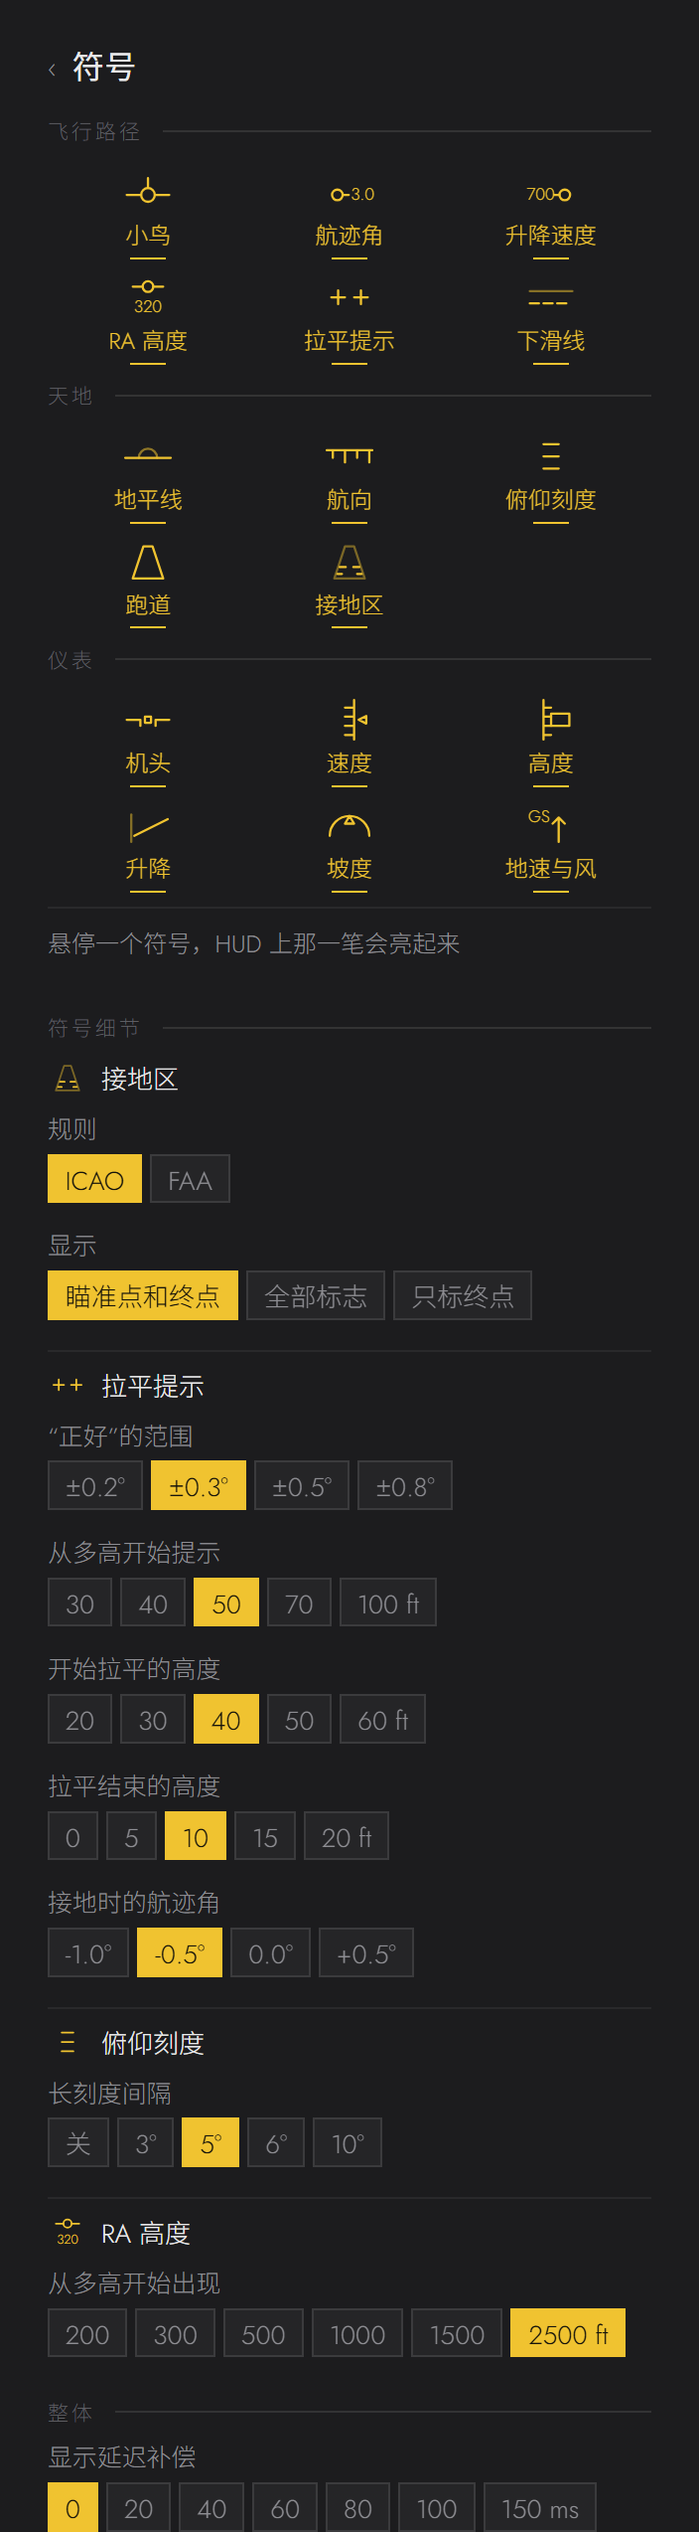
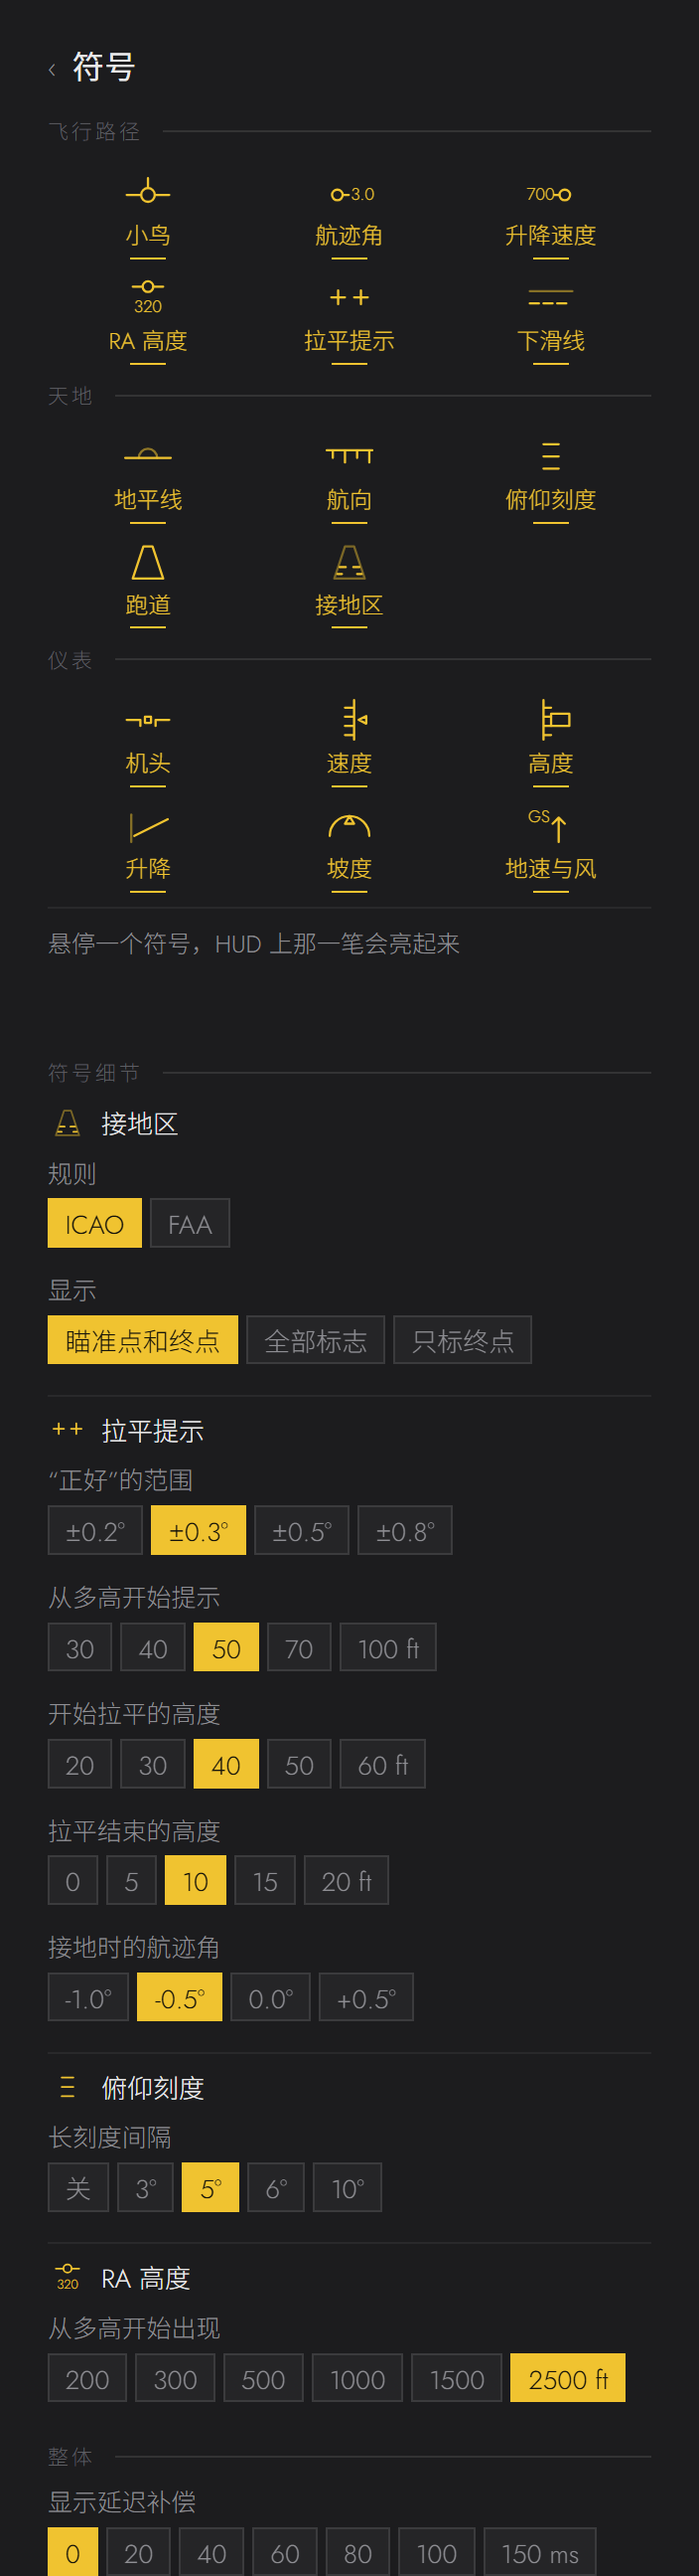
Panel: the symbol description keeps one height
Hovering the symbols changed the description between one and three
lines, and the page jumped with it. The box now takes the height of the
longest text it can show (each symbol's, "now off" included, and the
idle hint), measured again when the language, the look or the fonts
change; in rem, so it scales with the in-sim panel.

diff --git a/panel/birdie-panel/html_ui/InGamePanels/Birdie/birdie.js b/panel/birdie-panel/html_ui/InGamePanels/Birdie/birdie.js
@@ -323,6 +323,7 @@
   function applyLook() {
     var k = look();
     each(STYLES, function (x) { cls(document.documentElement, 'ui-' + x, x === k); });
+    if ($('gdesc').innerHTML) fitDesc();  // each look has its own type
     try { window.localStorage && localStorage.setItem('birdie.look', k); } catch (e) { /* no storage */ }
   }
   function fmt(s, o) { return s.replace(/\{(\w+)\}/g, function (_, k) { return o[k]; }); }
@@ -909,15 +910,28 @@
     });
   }
   var descTimer = null;
+  function descHtml(k, off) {
+    var l = L(), g = k && glyph(k);
+    if (!g) return l.gIdle;
+    return '<b>' + (S.lang === 'zh' ? g[2] : g[3]) + '</b>' + (S.lang === 'zh' ? g[4] : g[5]) + (off ? (S.lang === 'zh' ? '。' : '. ') + l.nowOff : '');
+  }
+  // One height for every text the box can say (the longest, "now off" included), so hovering does not make the page jump.
+  // Measured again when the words, the look or the fonts change.
+  function fitDesc() {
+    var box = $('gdesc'), keep = box.innerHTML, h = 0;
+    box.style.height = 'auto';
+    [null].concat(ALL.map(function (g) { return g[0]; })).forEach(function (k) {
+      box.innerHTML = descHtml(k, !!k);
+      h = Math.max(h, box.offsetHeight);
+    });
+    box.innerHTML = keep;
+    var rem = parseFloat(window.getComputedStyle(document.documentElement).fontSize) || 14;
+    if (h) box.style.height = (h / rem).toFixed(3) + 'rem';  // the panel scales its type with its width (fit)
+  }
   function describe(k, now) {
     var box = $('gdesc');
     var put = function () {
-      var l = L();
-      if (!k) box.innerHTML = l.gIdle;
-      else {
-        var g = glyph(k), on = S.set[g[1]];
-        box.innerHTML = '<b>' + (S.lang === 'zh' ? g[2] : g[3]) + '</b>' + (S.lang === 'zh' ? g[4] : g[5]) + (on ? '' : (S.lang === 'zh' ? '。' : '. ') + l.nowOff);
-      }
+      box.innerHTML = descHtml(k, k && !S.set[glyph(k)[1]]);
       box.style.opacity = 1;
     };
     clearTimeout(descTimer);
@@ -1513,7 +1527,7 @@
     layoutWords(); keysWords();
     for (var id in map) $(id).textContent = l[map[id]];
     document.documentElement.lang = S.lang === 'zh' ? 'zh-CN' : 'en';
-    glyphs(); details(); picks(); describe(null, true);
+    glyphs(); details(); picks(); describe(null, true); fitDesc();
     voiceKey = ''; pvShown = null; paint();
   }
 
@@ -1659,8 +1673,10 @@
     fit();
     window.addEventListener('resize', fit);
     if (COUI) setInterval(fit, 500);  // the sim resizes panels without a resize event
-    window.addEventListener('load', fitPanel);
-    setTimeout(fitPanel, 300);  // fonts arrive late
+    var settle = function () { fitDesc(); fitPanel(); };
+    window.addEventListener('load', settle);
+    setTimeout(settle, 300);  // fonts arrive late
+    if (document.fonts && document.fonts.ready) document.fonts.ready.then(settle);
     connect();
   }
 
